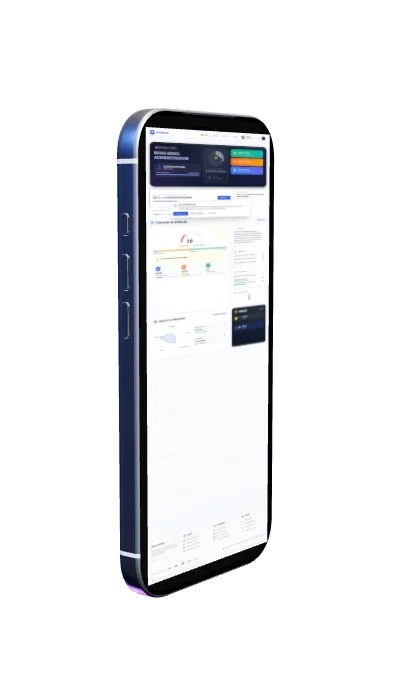
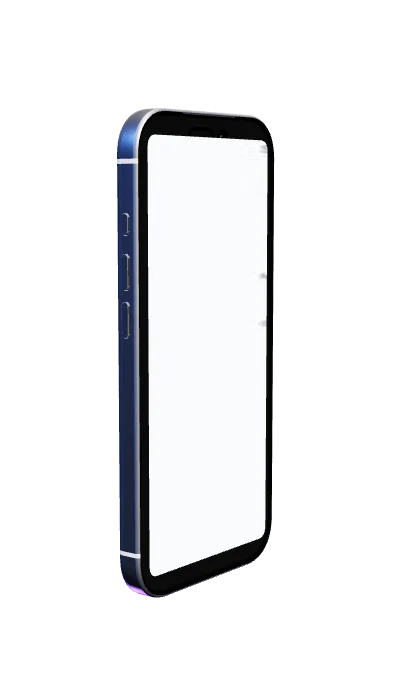
fix: campus screenshot now renders INSIDE iPhone screen with rounded corners + Dynamic Island

Changed region(s): [[0.36, 0.18, 0.69, 0.84], [0.48, 0.48, 0.51, 0.51], [0.42, 0.45, 0.45, 0.48]]

diff --git a/public/render-frames-v2.html b/public/render-frames-v2.html
@@ -1,7 +1,7 @@
 <!DOCTYPE html>
 <html>
 <head>
-  <title>Render iPhone Frames v2 — campus overlay</title>
+  <title>Render iPhone Frames v2 — campus inside screen</title>
   <style>body{background:#000;color:#fff;font-family:monospace;padding:20px}#status{font-size:18px;margin-bottom:10px}</style>
   <script type="importmap">
   {"imports":{"three":"https://cdn.jsdelivr.net/npm/three@0.170.0/build/three.module.js","three/addons/":"https://cdn.jsdelivr.net/npm/three@0.170.0/examples/jsm/"}}
@@ -42,19 +42,75 @@
       model.position.sub(center);
       model.rotation.x = 0.12;
 
+      // Find the Screen mesh to get exact dimensions
+      let screenMesh = null;
+      model.traverse((child) => {
+        if (child.isMesh && child.material && child.material.name === 'Display') {
+          screenMesh = child;
+          // Log the bounding box of the screen
+          const sb = new THREE.Box3().setFromObject(child);
+          console.log('Screen bounds:', JSON.stringify({
+            min: {x: sb.min.x.toFixed(5), y: sb.min.y.toFixed(5), z: sb.min.z.toFixed(5)},
+            max: {x: sb.max.x.toFixed(5), y: sb.max.y.toFixed(5), z: sb.max.z.toFixed(5)},
+            sizeX: (sb.max.x - sb.min.x).toFixed(5),
+            sizeY: (sb.max.y - sb.min.y).toFixed(5),
+          }));
+        }
+      });
+
       scene.add(model);
 
-      // Create screen overlay plane positioned right on the display
-      // Screen dimensions from model: roughly 0.0675 x 0.1456 centered at z=0.00345
-      const screenGeo = new THREE.PlaneGeometry(0.064, 0.138);
+      // Wait for console to flush, then use measured screen bounds
+      // From GLB analysis: Screen mesh "Cube.004" Display material
+      // Bounds approx: x: -0.0338 to 0.0338, y: -0.0728 to 0.0728, z: ~0.00345
+      // Use slightly smaller to stay inside bezels with rounded corners
+
+      // Screen plane — slightly smaller than actual screen to avoid bleeding over bezels
+      const screenW = 0.062;  // ~92% of screen width
+      const screenH = 0.134;  // ~92% of screen height
+      const screenGeo = new THREE.PlaneGeometry(screenW, screenH);
+
+      // Round corners with a custom shape
+      const shape = new THREE.Shape();
+      const hw = screenW / 2, hh = screenH / 2, cr = 0.004; // corner radius
+      shape.moveTo(-hw + cr, -hh);
+      shape.lineTo(hw - cr, -hh);
+      shape.quadraticCurveTo(hw, -hh, hw, -hh + cr);
+      shape.lineTo(hw, hh - cr);
+      shape.quadraticCurveTo(hw, hh, hw - cr, hh);
+      shape.lineTo(-hw + cr, hh);
+      shape.quadraticCurveTo(-hw, hh, -hw, hh - cr);
+      shape.lineTo(-hw, -hh + cr);
+      shape.quadraticCurveTo(-hw, -hh, -hw + cr, -hh);
+
+      const roundedGeo = new THREE.ShapeGeometry(shape);
       const screenMat = new THREE.MeshBasicMaterial({
         map: campusTex,
         toneMapped: false,
       });
-      const screenPlane = new THREE.Mesh(screenGeo, screenMat);
-      // Position on front face of phone
-      screenPlane.position.set(0, 0, 0.00455);
+      const screenPlane = new THREE.Mesh(roundedGeo, screenMat);
+      // Position above the glass layer
+      screenPlane.position.set(0, 0, 0.0044);
       model.add(screenPlane);
+
+      // Dynamic Island cutout (black pill at top)
+      const diShape = new THREE.Shape();
+      const diW = 0.018, diH = 0.003, diR = 0.0015;
+      diShape.moveTo(-diW + diR, -diH);
+      diShape.lineTo(diW - diR, -diH);
+      diShape.quadraticCurveTo(diW, -diH, diW, -diH + diR);
+      diShape.lineTo(diW, diH - diR);
+      diShape.quadraticCurveTo(diW, diH, diW - diR, diH);
+      diShape.lineTo(-diW + diR, diH);
+      diShape.quadraticCurveTo(-diW, diH, -diW, diH - diR);
+      diShape.lineTo(-diW, -diH + diR);
+      diShape.quadraticCurveTo(-diW, -diH, -diW + diR, -diH);
+
+      const diGeo = new THREE.ShapeGeometry(diShape);
+      const diMat = new THREE.MeshBasicMaterial({ color: 0x000000, toneMapped: false });
+      const diPlane = new THREE.Mesh(diGeo, diMat);
+      diPlane.position.set(0, 0.062, 0.00356);
+      model.add(diPlane);
 
       document.getElementById('status').textContent = 'Rendering...';
       window.__frameDataURLs = [];
